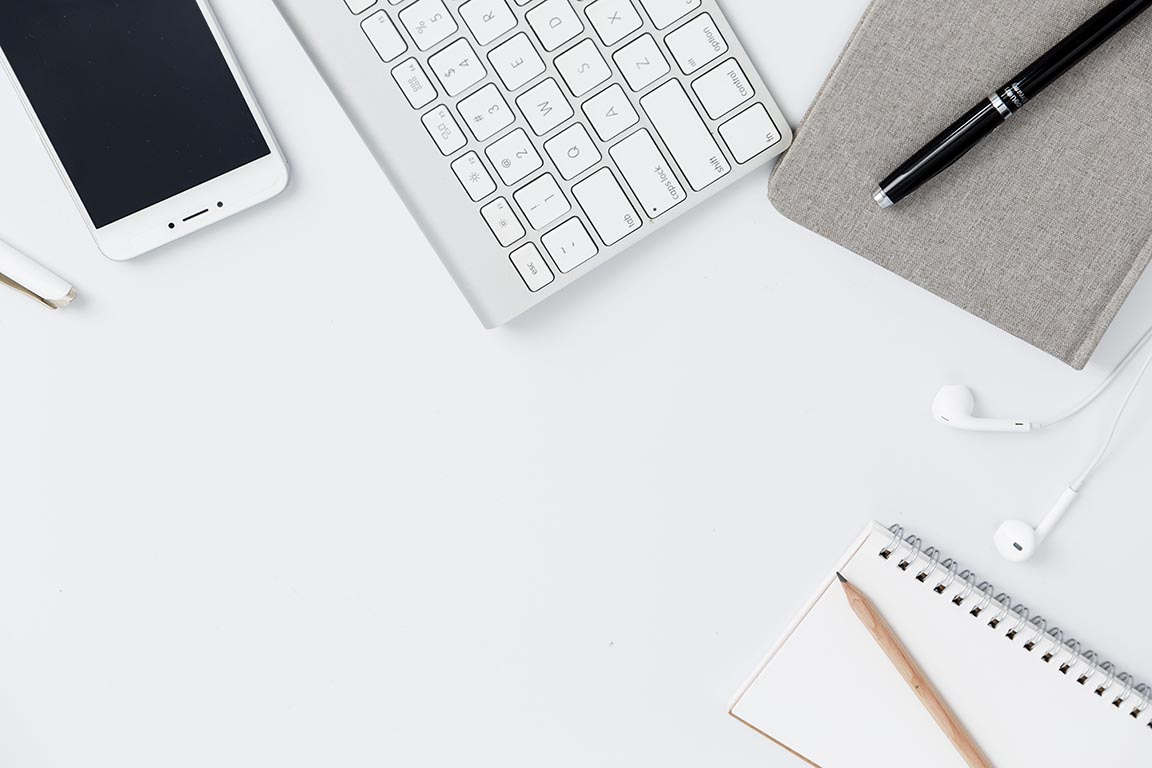
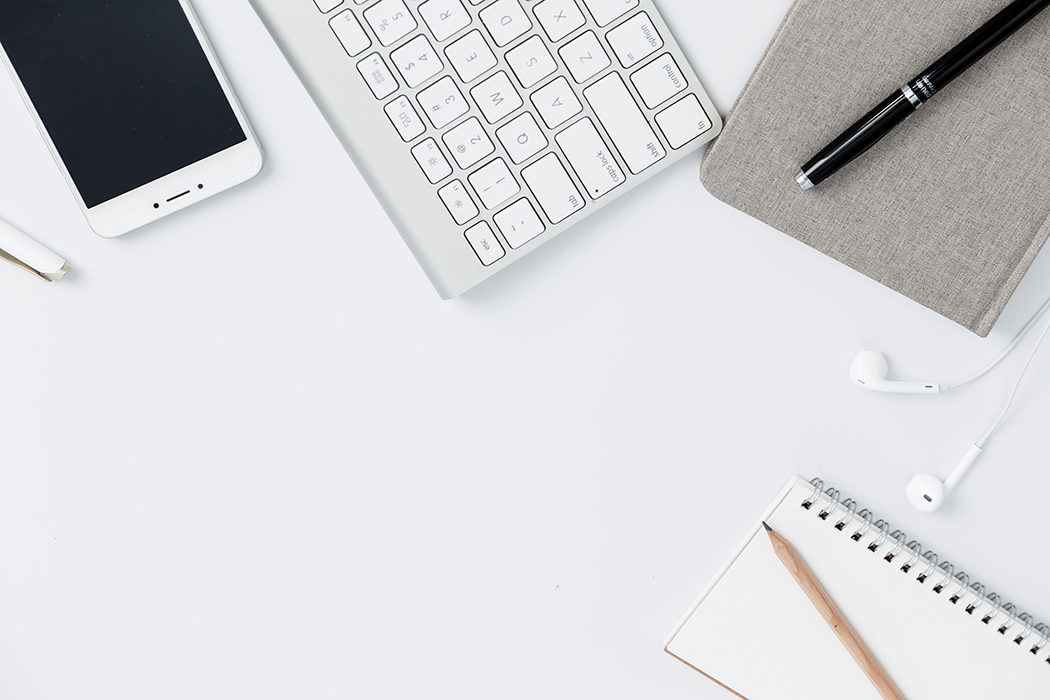
Change background image res and reintroduce hide css

diff --git a/css/styles.min.css b/css/styles.min.css
@@ -1,1 +1,1 @@
-@import url("https://fonts.googleapis.com/css?family=Open+Sans");@import url("https://fonts.googleapis.com/css?family=Raleway");@import url("https://fonts.googleapis.com/css?family=Roboto|Taviraj:300,400,500i");body{padding-top:95px;font-family:"Open Sans",sans-serif;color:#474747}body .navbar{border-top:8px solid #001c33;font-size:14px;padding:0;top:0;position:fixed;width:100%;background-color:#fff;transition:1s;z-index:2}body .navbar ul{margin:0;padding:20px;list-style:none;text-align:center;line-height:20px}body .navbar ul .nav-list{color:#474747;text-decoration:none}body .navbar ul .nav-list #logo{font-size:45px;font-weight:bold}body .navbar ul .nav-list li{transition:.5s;margin:0 12px;padding:5px;display:inline-block;text-transform:lowercase;letter-spacing:-1px}body .navbar ul .nav-list li:hover{cursor:pointer;transform:translateY(-5px)}body .navbar ul .nav-list:hover{color:#001c33}body section{margin:100px 0}body .jumbotron{background-color:transparent;letter-spacing:-1px;padding:15rem 2rem;margin:0;background-image:url("../assets/background.jpg");background-attachment:fixed;background-position:center;background-repeat:no-repeat;background-size:cover;border-top-left-radius:25px}body .jumbotron h2 span{color:#001c33;font-family:"Raleway",sans-serif}body .jumbotron ul{padding:10px 0 0 50px;list-style:none}body .jumbotron ul li{display:inline-block}body .jumbotron ul li svg{fill:#474747;margin:10px;width:30px;border-radius:5px;transition:.5s}body .jumbotron ul li svg:hover{cursor:pointer;fill:#001c33}body .about{padding:50px 0}body .about .row{text-align:center}body .about .row img{border-radius:100%;height:180px}body .about .row p{background-color:#fff;padding:30px;font-size:14px;font-family:"Raleway",sans-serif;text-align:center;color:#001c33}body .about .row p span{margin-right:6px;font-family:"Open Sans",sans-serif}body .about button{text-align:center;margin:auto}body .service{text-align:center}body .service h2{color:#001c33}body .service .row .col-md-4 img{margin:20px 0;transition:all 250ms ease}body .service .row .col-md-4 h3{margin-bottom:20px}body .service .row .col-md-4 p{font-size:14px}body .service .row .col-md-4:hover img{transform:translateY(-10px)}body .service .row .col-md-4:hover h3{color:#001c33}body .skills{text-align:center;margin:6rem 0}body .skills p{margin-bottom:2rem;color:#001c33}body .skills h2{padding-top:35px;text-align:center;color:#001c33}body .skills .row .col-md-4{padding-bottom:35px}body .skills .row .col-md-4 h4{text-align:center;margin-top:20px;margin-bottom:20px;color:#001c33;font-family:"Raleway",sans-serif}body .skills .row .col-md-4 .ct-chart{height:200px}body .skills .row .col-md-4 .ct-chart .ct-slice-donut{stroke:#001c33}body .skills .row .col-md-4 .ct-chart .ct-label{font-size:20px;fill:#001c33}body .work{text-align:center}body .work h2{color:#001c33}body .work ul{padding:0;list-style:none}body .work ul li{display:inline-block;color:#001c33;padding:5px 25px;border-radius:25px;margin:10px;border:1.5px solid #001c33}body .work ul li:hover{background-color:#001c33;color:white;cursor:pointer}body .work .row{margin:20px 0}body .work .row .col-md-4 img{max-width:100%;border-top-left-radius:25px;border-bottom-right-radius:25px}body .work .row .col-md-4 img:hover{box-shadow:0 10px 20px rgba(32,48,64,0.1),0 6px 6px rgba(32,48,64,0.12)}body .work .live{transition-property:all;transition-duration:1s}body .work .mockups{transition-property:all;transition-duration:1s}body .contact{text-align:center}body .contact h1{color:#001c33}body .contact p{margin-bottom:35px;color:#474747}body .contact a h4{color:#4A96AD}body .contact a:hover{cursor:pointer;text-decoration:none}body footer{text-align:center;color:#d4d4d4}body footer ul{margin:0;padding:20px 0 0;border-top:1px solid #4A96AD;list-style:none}body footer ul li{display:inline-block}body footer ul li svg{fill:#d4d4d4;margin:10px;width:25px;border-radius:5px;transition:.5s}body footer ul li svg:hover{cursor:pointer;fill:#001c33}.active{background-color:#001c33;color:#fff !important}@media screen and (max-width: 766px){.work .row .col-md-4{padding-bottom:20px}}
+@import url("https://fonts.googleapis.com/css?family=Open+Sans");@import url("https://fonts.googleapis.com/css?family=Raleway");@import url("https://fonts.googleapis.com/css?family=Roboto|Taviraj:300,400,500i");body{padding-top:95px;font-family:"Open Sans",sans-serif;color:#474747}body .navbar{border-top:8px solid #001c33;font-size:14px;padding:0;top:0;position:fixed;width:100%;background-color:#fff;transition:1s;z-index:2}body .navbar ul{margin:0;padding:20px;list-style:none;text-align:center;line-height:20px}body .navbar ul .nav-list{color:#474747;text-decoration:none}body .navbar ul .nav-list #logo{font-size:45px;font-weight:bold}body .navbar ul .nav-list li{transition:.5s;margin:0 12px;padding:5px;display:inline-block;text-transform:lowercase;letter-spacing:-1px}body .navbar ul .nav-list li:hover{cursor:pointer;transform:translateY(-5px)}body .navbar ul .nav-list:hover{color:#001c33}body section{margin:100px 0}body .jumbotron{background-color:transparent;letter-spacing:-1px;padding:15rem 2rem;margin:0;background-image:url("../assets/background.jpg");background-attachment:fixed;background-position:center;background-repeat:no-repeat;background-size:cover;border-top-left-radius:25px}body .jumbotron h2 span{color:#001c33;font-family:"Raleway",sans-serif}body .jumbotron ul{padding:10px 0 0 50px;list-style:none}body .jumbotron ul li{display:inline-block}body .jumbotron ul li svg{fill:#474747;margin:10px;width:30px;border-radius:5px;transition:.5s}body .jumbotron ul li svg:hover{cursor:pointer;fill:#001c33}body .about{padding:50px 0}body .about .row{text-align:center}body .about .row img{border-radius:100%;height:180px}body .about .row p{background-color:#fff;padding:30px;font-size:14px;font-family:"Raleway",sans-serif;text-align:center;color:#001c33}body .about .row p span{margin-right:6px;font-family:"Open Sans",sans-serif}body .about button{text-align:center;margin:auto}body .service{text-align:center}body .service h2{color:#001c33}body .service .row .col-md-4 img{margin:20px 0;transition:all 250ms ease}body .service .row .col-md-4 h3{margin-bottom:20px}body .service .row .col-md-4 p{font-size:14px}body .service .row .col-md-4:hover img{transform:translateY(-10px)}body .service .row .col-md-4:hover h3{color:#001c33}body .skills{text-align:center;margin:6rem 0}body .skills p{margin-bottom:2rem;color:#001c33}body .skills h2{padding-top:35px;text-align:center;color:#001c33}body .skills .row .col-md-4{padding-bottom:35px}body .skills .row .col-md-4 h4{text-align:center;margin-top:20px;margin-bottom:20px;color:#001c33;font-family:"Raleway",sans-serif}body .skills .row .col-md-4 .ct-chart{height:200px}body .skills .row .col-md-4 .ct-chart .ct-slice-donut{stroke:#001c33}body .skills .row .col-md-4 .ct-chart .ct-label{font-size:20px;fill:#001c33}body .work{text-align:center}body .work h2{color:#001c33}body .work ul{padding:0;list-style:none}body .work ul li{display:inline-block;color:#001c33;padding:5px 25px;border-radius:25px;margin:10px;border:1.5px solid #001c33}body .work ul li:hover{background-color:#001c33;color:white;cursor:pointer}body .work .row{margin:20px 0}body .work .row .col-md-4 img{max-width:100%;border-top-left-radius:25px;border-bottom-right-radius:25px}body .work .row .col-md-4 img:hover{box-shadow:0 10px 20px rgba(32,48,64,0.1),0 6px 6px rgba(32,48,64,0.12)}body .work .live{transition-property:all;transition-duration:1s}body .work .mockups{transition-property:all;transition-duration:1s}body .contact{text-align:center}body .contact h1{color:#001c33}body .contact p{margin-bottom:35px;color:#474747}body .contact a h4{color:#4A96AD}body .contact a:hover{cursor:pointer;text-decoration:none}body footer{text-align:center;color:#d4d4d4}body footer ul{margin:0;padding:20px 0 0;border-top:1px solid #4A96AD;list-style:none}body footer ul li{display:inline-block}body footer ul li svg{fill:#d4d4d4;margin:10px;width:25px;border-radius:5px;transition:.5s}body footer ul li svg:hover{cursor:pointer;fill:#001c33}.active{background-color:#001c33;color:#fff !important}.hide{display:none}@media screen and (max-width: 766px){.work .row .col-md-4{padding-bottom:20px}}

diff --git a/js/animations.js b/js/animations.js
@@ -2,17 +2,17 @@ $(document).ready(function() {
   // navigation scroll to section
   $("#toWork").click(function() {
     $('html, body').animate({
-        scrollTop: $("#work").offset().top
+        scrollTop: $("#work").offset().top -100
     }, 2000);
   });
   $("#toAbout").click(function() {
     $('html, body').animate({
-        scrollTop: $("#about").offset().top
+        scrollTop: $("#about").offset().top -100
     }, 2000);
   });
   $("#toContact").click(function() {
     $('html, body').animate({
-        scrollTop: $("#contact").offset().top
+        scrollTop: $("#contact").offset().top -100
     }, 2000);
   });
   $("#toTop").click(function() {

diff --git a/css/styles.scss b/css/styles.scss
@@ -276,6 +276,9 @@ body {
   background-color: $primary;
   color: #fff !important;
 }
+.hide {
+  display: none;
+}
 
 @media screen and (max-width: 766px) {
   .work {
